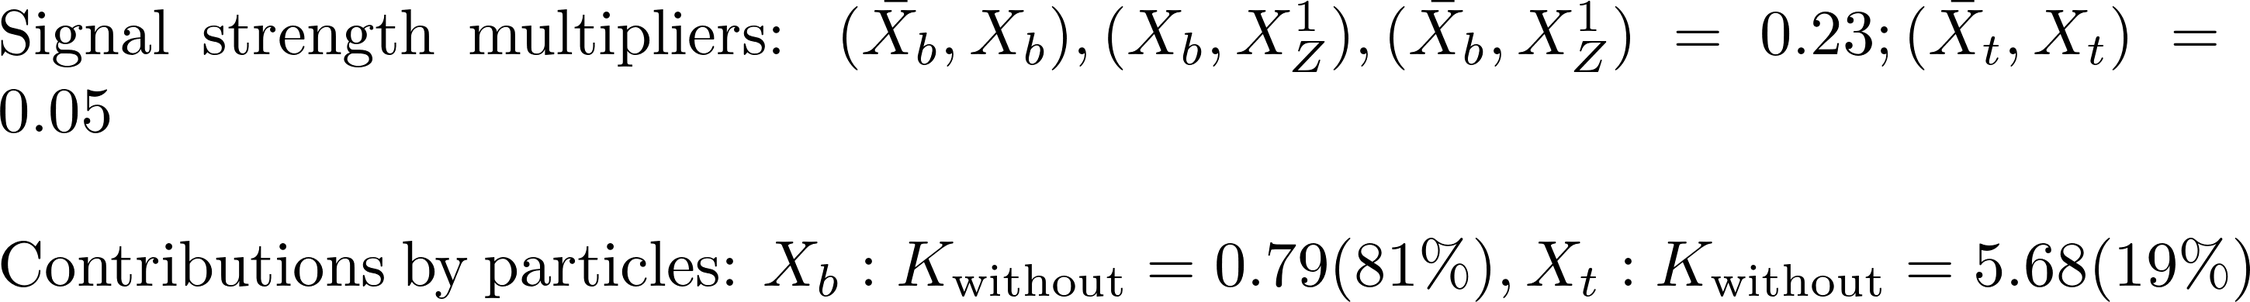
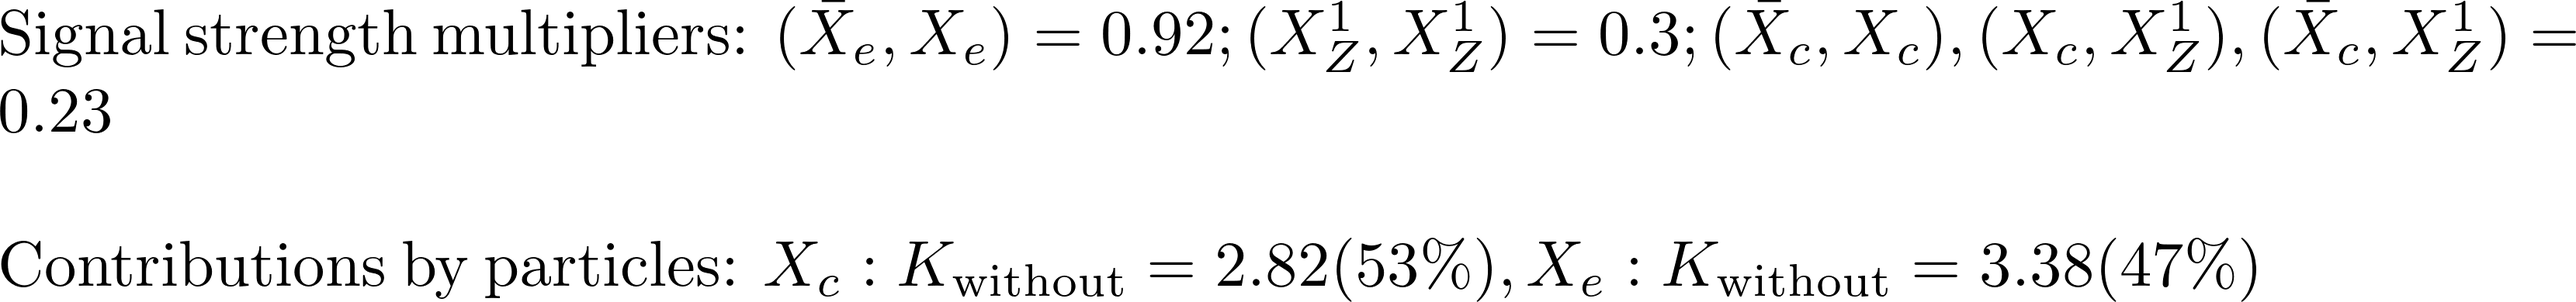
automated update by plotHiscore.py

Changed region(s): [[0.0, 0.0, 1.0, 0.2462], [0.0, 0.8, 1.0, 1.0], [0.0, 0.2769, 0.0621, 0.4615]]

diff --git a/protomodels/latest/index.html b/protomodels/latest/index.html
@@ -1,29 +1,32 @@
 <html>
 <body>
 <center>
-<table><td><h1>Current best protomodel: K=7.18</h1><td><img height=60px src=https://smodels.github.io/pics/banner.png></table>
+<table><td><h1>Current best protomodel: K=7.20</h1><td><img height=60px src=https://smodels.github.io/pics/banner.png></table>
 </center>
-<b><a href=./hiscore.slha>ProtoModel</a> <a href=./pmodel.py>(dict)</a> produced with <a href=https://smodels.github.io/docs/Validation124fake7>database v1.2.4fake7</a>, combination strategy <a href=./matrix_aggressive.png>aggressive</a> in walker 41 step 480.</b> K plots for: <a href=./M1000022.png?8822391>X<sub>Z</sub><sup>1</sup></a>, <a href=./M1000006.png?8822391>X<sub>t</sub></a>, <a href=./M1000005.png?8822391>X<sub>b</sub></a>. HPD plots for: <a href=./llhd1000006.png?8822391>X<sub>t</sub></a>, <a href=./llhd1000005.png?8822391>X<sub>b</sub></a>. SSM plots for: <a href=./ssm_-1000006_1000006.png?8822391>(x&#772;<sub>t</sub>,X<sub>t</sub>)</a><br>
+<b><a href=./hiscore.slha>ProtoModel</a> <a href=./pmodel.py>(dict)</a> produced with <a href=https://smodels.github.io/docs/Validation124fake11>database v1.2.4fake11</a>, combination strategy <a href=./matrix_aggressive.png>aggressive</a> in walker 29 step 693.</b> K plots for: <a href=./M1000022.png?8823547>X<sub>Z</sub><sup>1</sup></a>, <a href=./M1000004.png?8823547>X<sub>c</sub></a>, <a href=./M1000011.png?8823547>X<sub>e</sub></a>. HPD plots for: <a href=./llhd1000004.png?8823547>X<sub>c</sub></a>, <a href=./llhd1000011.png?8823547>X<sub>e</sub></a>. SSM plots for: <br>
 <table width=80%>
 <tr><td>
 <br><b>21 predictions available. Highest r values are:</b><br><ul>
-<li>CMS-SUS-13-019:T2bb r=1.30, r<sub>exp</sub>=N/A<br>
-<li>ATLAS-SUSY-2013-05:T2bb r=1.27, r<sub>exp</sub>=1.31<br>
-<li>CMS-SUS-13-012:T2bb r=1.21, r<sub>exp</sub>=0.63<br>
-<li>CMS-SUS-16-036:T2tt r=0.61, r<sub>exp</sub>=0.39<br>
-<li>ATLAS-SUSY-2013-05:T2bb r=0.57, r<sub>exp</sub>=N/A<br>
+<li>CMS-SUS-16-036:T2 r=1.30, r<sub>exp</sub>=0.81<br>
+<li>CMS-SUS-19-006:T2 r=1.15, r<sub>exp</sub>=1.14<br>
+<li>CMS-SUS-17-009:TSlepSlep r=1.09, r<sub>exp</sub>=1.01<br>
+<li>ATLAS-SUSY-2016-24:TSlepSlep r=0.84, r<sub>exp</sub>=N/A<br>
+<li>CMS-SUS-13-012:T2 r=0.73, r<sub>exp</sub>=0.16<br>
 </ul>
 <td><br><b>K values without analyses: (contribution)</b><br>
 <ul>
-<li> <a href=>ATLAS-SUSY-2015-02</a>: 4.42 (14%)
-<li> <a href=>CMS-SUS-19-006</a>: 4.13 (15%)
-<li> <a href=>CMS-SUS-13-012</a>: 2.99 (21%)
-<li> <a href=>ATLAS-SUSY-2013-05</a>: -2.73 (50%)
-<td><img width=600px src=./texdoc.png?1601822391>
-<br><font size=-1>Last updated: Sun Oct  4 16:39:51 2020</font>
+<li> <a href=>CMS-SUS-16-033</a>: -2.47 (14%)
+<li> <a href=>CMS-SUS-17-009</a>: -2.47 (14%)
+<li> <a href=>ATLAS-SUSY-2013-11</a>: -2.47 (14%)
+<li> <a href=>CMS-SUS-13-012</a>: -2.51 (14%)
+<li> <a href=>ATLAS-SUSY-2013-02</a>: -2.54 (14%)
+<li> <a href=>ATLAS-SUSY-2016-07</a>: -2.61 (14%)
+<li> <a href=>ATLAS-SUSY-2016-24</a>: -3.50 (16%)
+<td><img width=600px src=./texdoc.png?1601823547>
+<br><font size=-1>Last updated: Sun Oct  4 16:59:07 2020</font>
 </table><table style="width:80%">
-<td width=45%><img height=580px src=./ruler.png?1601822391><td width=55%><img height=380px src=./decays.png?1601822391>
-<font size=-3><iframe type="text/html" height="220px" width="100%s" frameborder="0" src="./rawnumbers.html?1601822391"></iframe></font>
+<td width=45%><img height=580px src=./ruler.png?1601823547><td width=55%><img height=380px src=./decays.png?1601823547>
+<font size=-3><iframe type="text/html" height="220px" width="100%s" frameborder="0" src="./rawnumbers.html?1601823547"></iframe></font>
 </table>
 </body>
 </html>

diff --git a/protomodels/latest/rawnumbers.html b/protomodels/latest/rawnumbers.html
@@ -1,8 +1,11 @@
 <table>
 <tr><th>Analysis Name</th><th>Type</th><th>Dataset</th><th>Topos</th><th>Observed</th><th>Expected</th><th>Approx &sigma;</th><th>Particles</th>
 </tr>
-<tr><td>ATLAS-SUSY-2013-05</td><td>em</td> <td>SRB</td><td>T2bb</td><td>100</td><td>64 +/- 10</td><td style="text-align:right">2.8 &sigma;</td><td style="text-align:right">X<sub>b</sub></td></tr>
-<tr><td>ATLAS-SUSY-2015-02</td><td>em</td> <td>SR1</td><td>T2tt</td><td>4</td><td>5.5 +/- 0.72</td><td style="text-align:right">-0.6 &sigma;</td><td style="text-align:right">X<sub>t</sub></td></tr>
-<tr><td>CMS-SUS-13-012</td><td>em</td> <td>3NJet6_800HT100 ...</td><td>T2bb</td><td>128</td><td>108 +/- 15</td><td style="text-align:right">1.1 &sigma;</td><td style="text-align:right">X<sub>b</sub></td></tr>
-<tr><td>CMS-SUS-19-006</td><td>ul</td> <td>-</td><td>T2tt</td><td> 11.6 fb </td><td> 6.4 fb</td><td style="text-align:right">1.6 &sigma;</td><td style="text-align:right">X<sub>t</sub></td></tr>
+<tr><td>ATLAS-SUSY-2013-02</td><td>em</td> <td>SR6jtp</td><td>T2</td><td>6</td><td>4.9 +/- 1.6</td><td style="text-align:right">0.4 &sigma;</td><td style="text-align:right">X<sub>c</sub></td></tr>
+<tr><td>ATLAS-SUSY-2013-11</td><td>em</td> <td>Zjets</td><td>TSlepSlep</td><td>2</td><td>1.4 +/- 0.6</td><td style="text-align:right">0.5 &sigma;</td><td style="text-align:right">X<sub>e</sub></td></tr>
+<tr><td>ATLAS-SUSY-2016-07</td><td>em</td> <td>2j_Meff_1200</td><td>T2</td><td>544</td><td>526 +/- 31</td><td style="text-align:right">0.5 &sigma;</td><td style="text-align:right">X<sub>c</sub></td></tr>
+<tr><td>ATLAS-SUSY-2016-24</td><td>em</td> <td>SR2-SF-loose</td><td>TSelSel</td><td>159</td><td>133 +/- 22</td><td style="text-align:right">1.0 &sigma;</td><td style="text-align:right">X<sub>e</sub></td></tr>
+<tr><td>CMS-SUS-13-012</td><td>em</td> <td>6NJet8_500HT800 ...</td><td>T2</td><td>8</td><td>0.8 +/- 3.3</td><td style="text-align:right">2.1 &sigma;</td><td style="text-align:right">X<sub>c</sub></td></tr>
+<tr><td>CMS-SUS-16-033</td><td>ul</td> <td>-</td><td>T2</td><td> 123.7 fb </td><td> 58.5 fb</td><td style="text-align:right">2.2 &sigma;</td><td style="text-align:right">X<sub>c</sub></td></tr>
+<tr><td>CMS-SUS-17-009</td><td>ul</td> <td>-</td><td>TSelSel</td><td> 17.6 fb </td><td> 9.1 fb</td><td style="text-align:right">1.8 &sigma;</td><td style="text-align:right">X<sub>e</sub></td></tr>
 </table>

diff --git a/protomodels/latest/pmodel.py b/protomodels/latest/pmodel.py
@@ -1,1 +1,1 @@
-{'masses': {1000022: 105.282, 1000006: 814.404, 1000005: 139.931}, 'ssmultipliers': {(1000022, 1000022): 0.0, (1000006, 1000006): 0.051, (-1000006, 1000006): 0.051, (-1000006, -1000006): 0.051, (1000006, 1000022): 0.051, (-1000006, 1000022): 0.051, (1000005, 1000005): 0.228, (-1000005, 1000005): 0.228, (-1000005, -1000005): 0.228, (1000005, 1000022): 0.228, (-1000005, 1000022): 0.228, (1000005, 1000006): 0.228, (-1000005, 1000006): 0.228, (-1000006, 1000005): 0.228, (-1000006, -1000005): 0.228}, 'decays': {1000022: {}, 1000006: {(1000022, 6): 1.0}, 1000005: {(1000022, 5): 1.0}}, 'timestamp': 'Sun Oct  4 16:39:38 2020', 'Z': 3.275, 'K': 7.177, 'step': 480, 'codever': '1.0', 'dbver': '1.2.4fake7'}
+{'masses': {1000022: 15.447, 1000004: 575.551, 1000011: 195.623}, 'ssmultipliers': {(1000022, 1000022): 0.297, (1000004, 1000004): 0.234, (-1000004, 1000004): 0.234, (-1000004, -1000004): 0.247, (1000004, 1000022): 0.234, (-1000004, 1000022): 0.234, (1000011, 1000011): 0.918, (-1000011, 1000011): 0.918, (-1000011, -1000011): 0.918, (1000011, 1000022): 0.918, (-1000011, 1000022): 0.918, (1000004, 1000011): 0.918, (-1000011, 1000004): 0.918, (-1000004, 1000011): 0.918, (-1000011, -1000004): 0.918}, 'decays': {1000022: {}, 1000004: {(1000022, 4): 1.0}, 1000011: {(1000022, 11): 1.0}}, 'timestamp': 'Sun Oct  4 16:58:48 2020', 'Z': 3.317, 'K': 7.205, 'step': 693, 'codever': '1.0', 'dbver': '1.2.4fake11'}
